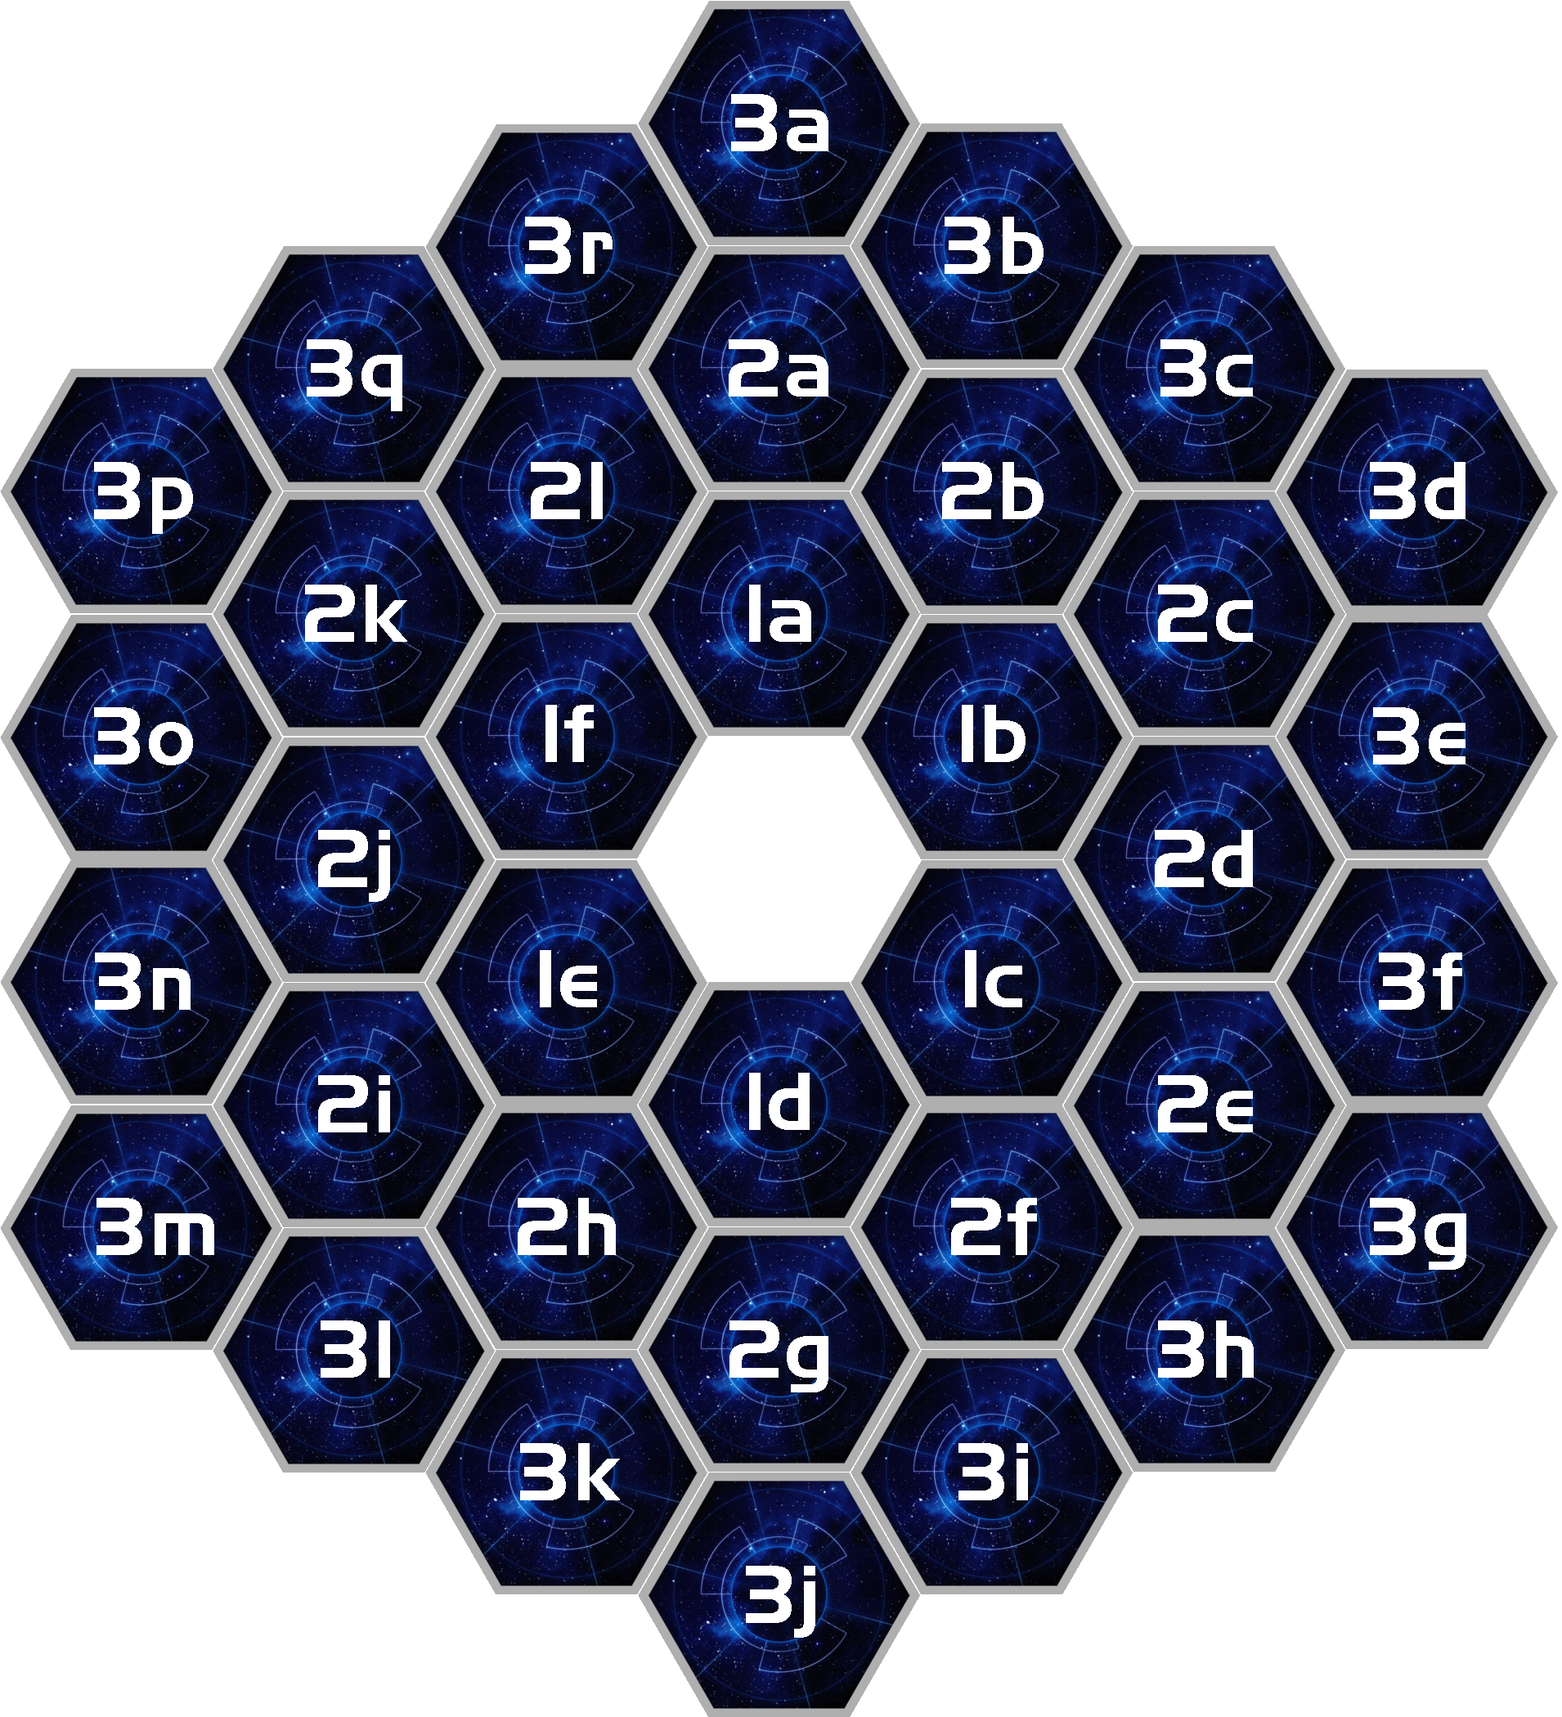
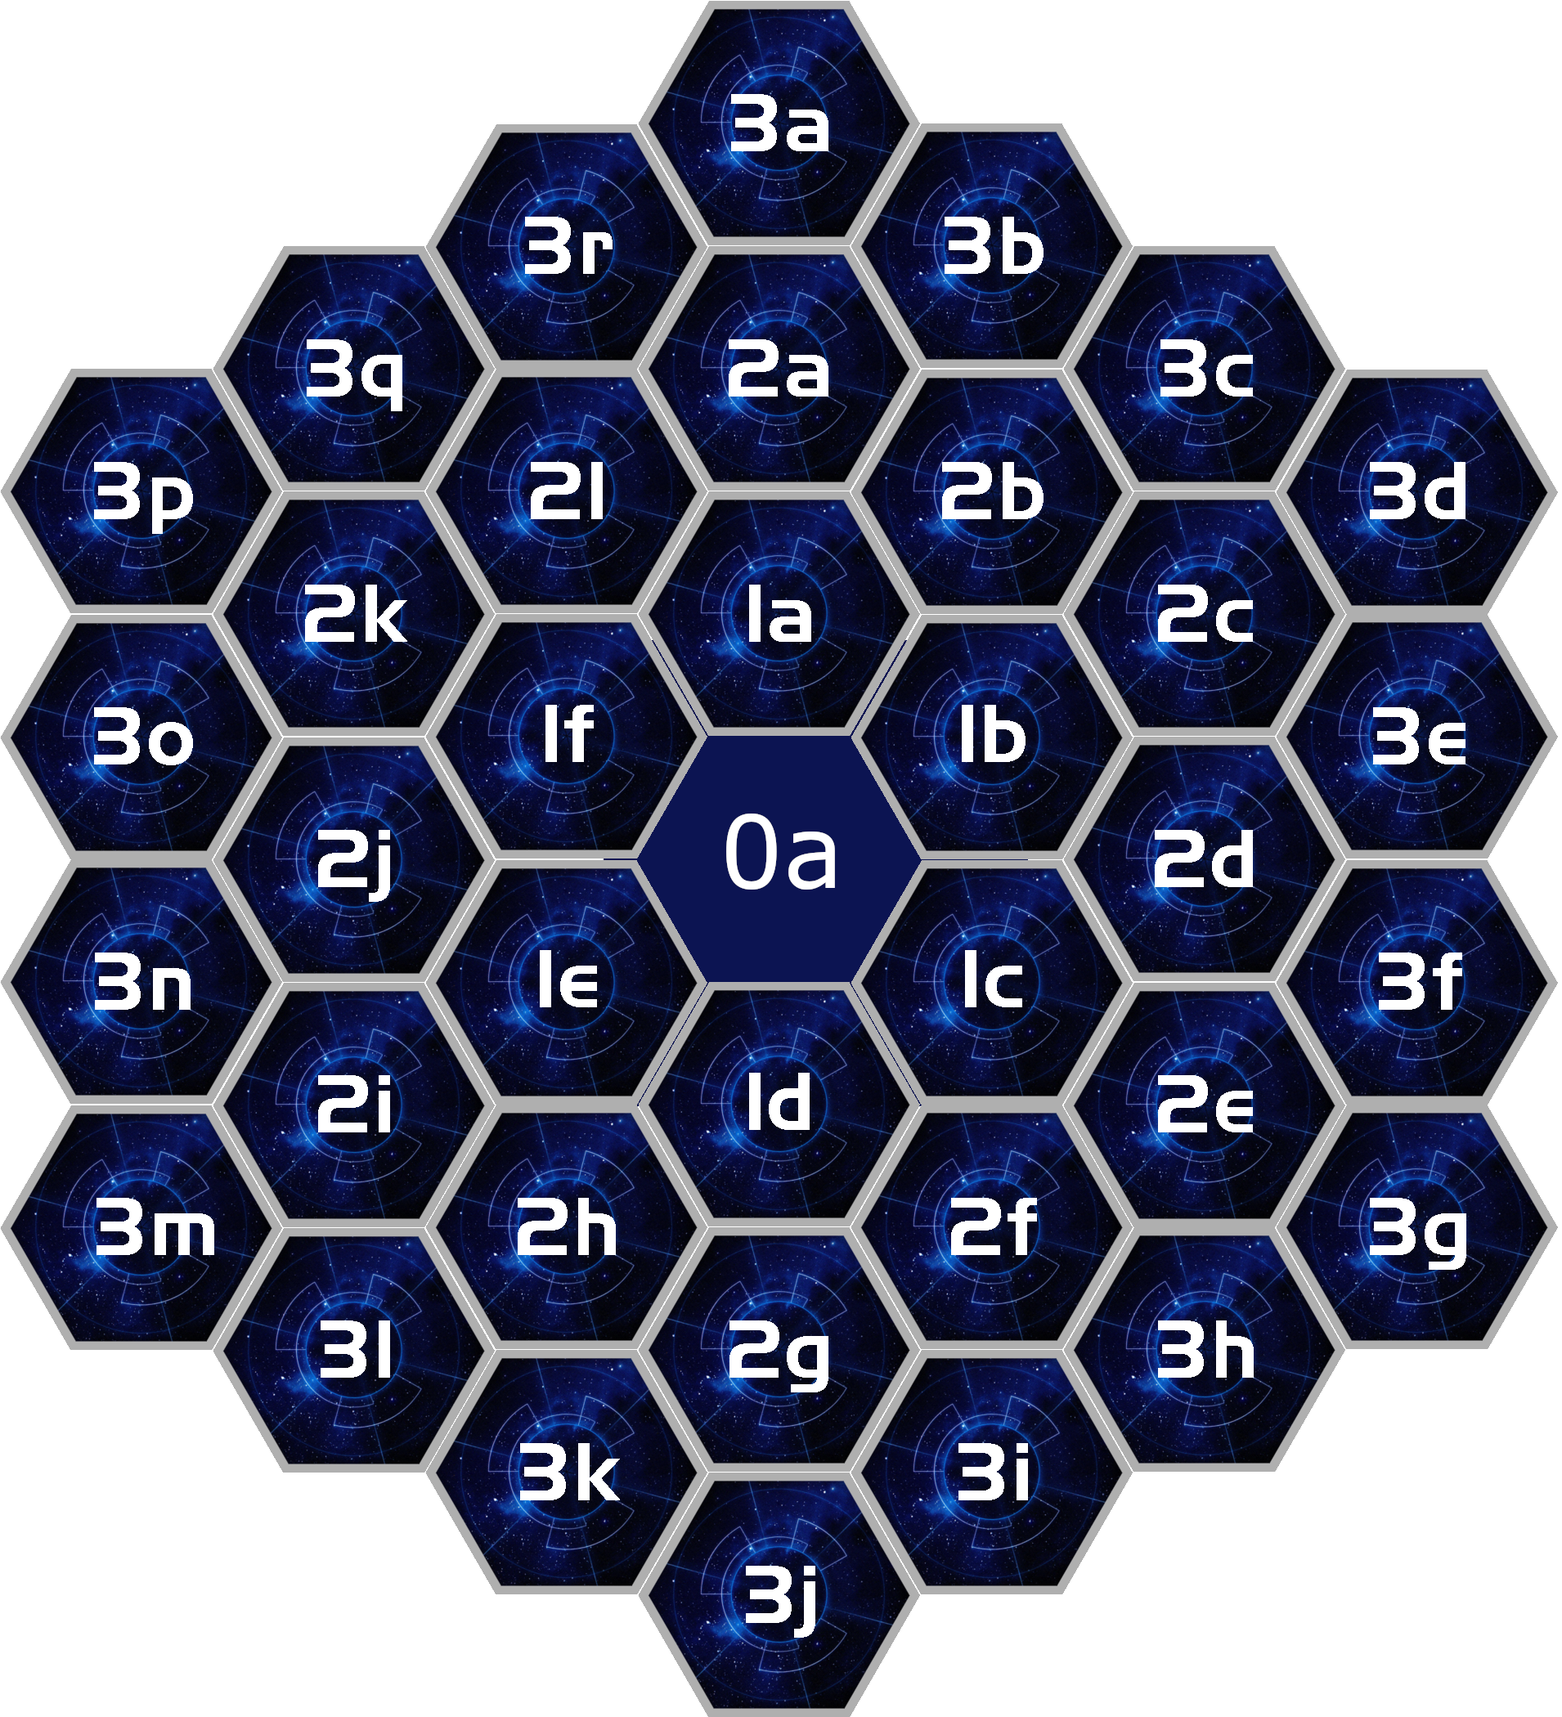
8 player support

Changed region(s): [[0.4016, 0.4024, 0.5869, 0.5881]]

diff --git a/src/main/java/ti4/generator/GenerateMap.java b/src/main/java/ti4/generator/GenerateMap.java
@@ -39,31 +39,38 @@ public class GenerateMap {
     private static Point numberPositionPoint = new Point(45, 35);
     private static HashMap<Player, Integer> userVPs = new HashMap<>();
 
+    private final int width6 = 2000;
+    private final int heght6 = 2100;
+    private final int width8 = 2500;
+    private final int heght8 = 3050;
+
     private static GenerateMap instance;
 
     private GenerateMap() {
-        String tileFile = ResourceHelper.getInstance().getTileFile("6player_setup.png");
-        File setupFile = new File(tileFile);
-        BufferedImage setupImage = null;
         try {
-            setupImage = ImageIO.read(setupFile);
             String controlID = Mapper.getControlID("red");
             BufferedImage bufferedImage = resizeImage(ImageIO.read(new File(Mapper.getCCPath(controlID))), 0.45f);
             scoreTokenWidth = bufferedImage.getWidth();
         } catch (IOException e) {
             LoggerHandler.logError("Could read file data for setup file", e);
         }
-        if (setupImage == null) {
-            LoggerHandler.log("Could not init map generator");
-            //todo message to user
-        }
-        width = Math.max(setupImage.getWidth(), 2000 + (extraWidth * 2));
-        heightForGameInfo = setupImage.getHeight();
-        heightForGameInfoStorage = heightForGameInfo;
-        height = heightForGameInfo + setupImage.getHeight() / 2 + 800;
-        heightStats = setupImage.getHeight() / 2 + 800;
-        heightStorage = height;
+        init(null);
         resetImage();
+    }
+
+    private void init(Map map) {
+        int mapWidth = width6;
+        int mapHeight = heght6;
+        if (map != null && map.getPlayerCountForMap() == 8){
+            mapWidth = width8;
+            mapHeight = heght8;
+        }
+        width = mapWidth + (extraWidth * 2);
+        heightForGameInfo = mapHeight;
+        heightForGameInfoStorage = heightForGameInfo;
+        height = heightForGameInfo + mapHeight / 2 + 1000;
+        heightStats = mapHeight / 2 + 1000;
+        heightStorage = height;
     }
 
     private void resetImage() {
@@ -79,17 +86,19 @@ public class GenerateMap {
     }
 
     public File saveImage(Map map) {
-        if (map.getDisplayTypeForced() != null){
+        if (map.getDisplayTypeForced() != null) {
             return saveImage(map, map.getDisplayTypeForced());
         }
         return saveImage(map, DisplayType.all);
     }
+
     public File saveImage(Map map, @CheckForNull DisplayType displayType) {
-        if (map.getDisplayTypeForced() != null){
+        init(map);
+        if (map.getDisplayTypeForced() != null) {
             displayType = map.getDisplayTypeForced();
-        } else if (displayType == null){
+        } else if (displayType == null) {
             displayType = map.getDisplayTypeForced();
-            if (displayType == null){
+            if (displayType == null) {
                 displayType = DisplayType.all;
             }
         }
@@ -113,12 +122,12 @@ public class GenerateMap {
                         .findFirst()
                         .orElse(null);
                 if (setup != null) {
-                    addTile(tileMap.get(setup));
+                    addTile(tileMap.get(setup), map);
                     tileMap.remove(setup);
                 }
                 tileMap.keySet().stream()
                         .sorted()
-                        .forEach(key -> addTile(tileMap.get(key)));
+                        .forEach(key -> addTile(tileMap.get(key), map));
             }
             graphics.setFont(Storage.getFont32());
             graphics.setColor(Color.WHITE);
@@ -226,7 +235,7 @@ public class GenerateMap {
                     String factionPath = getFactionPath(faction);
                     if (factionPath != null) {
                         BufferedImage bufferedImage;
-                        if ("keleres".equals(faction)){
+                        if ("keleres".equals(faction)) {
                             bufferedImage = resizeImage(ImageIO.read(new File(factionPath)), 0.7f);
                         } else {
                             bufferedImage = resizeImage(ImageIO.read(new File(factionPath)), percent);
@@ -324,7 +333,7 @@ public class GenerateMap {
         graphics.setColor(Color.WHITE);
         Player speaker = map.getPlayer(map.getSpeaker());
         for (java.util.Map.Entry<String, Player> playerEntry : map.getPlayers().entrySet()) {
-            ArrayList<Point> points = PositionMapper.getPlayerPosition(playerPosition);
+            ArrayList<Point> points = PositionMapper.getPlayerPosition(playerPosition, map);
             if (points.isEmpty()) {
                 continue;
             }
@@ -342,8 +351,8 @@ public class GenerateMap {
             int x = points.get(2).x;
             int y = points.get(2).y;
             drawCCOfPlayer(ccID, x, y, player.getTacticalCC());
-            drawCCOfPlayer(fleetCCID, x, y+65, player.getFleetCC());
-            drawCCOfPlayer(ccID, x, y+130, player.getStrategicCC());
+            drawCCOfPlayer(fleetCCID, x, y + 65, player.getFleetCC());
+            drawCCOfPlayer(ccID, x, y + 130, player.getStrategicCC());
 
             if (player == speaker) {
                 String speakerID = Mapper.getTokenID(Constants.SPEAKER);
@@ -371,7 +380,7 @@ public class GenerateMap {
             BufferedImage ccImage = resizeImage(ImageIO.read(new File(ccPath)), 0.75f);
             int delta = 20;
             for (int i = 0; i < tacticalCC; i++) {
-                 graphics.drawImage(ccImage, x + (delta * i), y, null);
+                graphics.drawImage(ccImage, x + (delta * i), y, null);
             }
         } catch (Exception e) {
             LoggerHandler.log("Could not parse cc file for: " + ccID, e);
@@ -566,10 +575,13 @@ public class GenerateMap {
     }
 
 
-    private void addTile(Tile tile) {
+    private void addTile(Tile tile, Map map) {
         try {
             BufferedImage image = ImageIO.read(new File(tile.getTilePath()));
-            Point positionPoint = PositionMapper.getTilePosition(tile.getPosition());
+            Point positionPoint = PositionMapper.getTilePosition(tile.getPosition(), map);
+            if (positionPoint == null){
+                System.out.println();
+            }
             int tileX = positionPoint.x + extraWidth;
             int tileY = positionPoint.y;
             graphics.drawImage(image, tileX, tileY, null);

diff --git a/src/main/java/ti4/generator/PositionMapper.java b/src/main/java/ti4/generator/PositionMapper.java
@@ -2,6 +2,7 @@ package ti4.generator;
 
 import ti4.ResourceHelper;
 import ti4.helpers.LoggerHandler;
+import ti4.map.Map;
 
 import javax.annotation.CheckForNull;
 import java.awt.*;
@@ -16,17 +17,21 @@ import java.util.StringTokenizer;
 public class PositionMapper {
 
     private static final Properties positionTileMap6Player = new Properties();
+    private static final Properties positionTileMap8Player = new Properties();
     private static final Properties planetPositions = new Properties();
     private static final Properties spaceTokenPositions = new Properties();
     private static final Properties planetTokenPositions = new Properties();
     private static final Properties playerInfo = new Properties();
+    private static final Properties playerInfo8 = new Properties();
 
     public static void init() {
         readData("6player.properties", positionTileMap6Player, "Could not read position file");
+        readData("8player.properties", positionTileMap8Player, "Could not read position file");
         readData("planet.properties", planetPositions, "Could not read planet position file");
         readData("space_token.properties", spaceTokenPositions, "Could not read space token position file");
         readData("planet_token.properties", planetTokenPositions, "Could not read planet token position file");
         readData("6player_info.properties", playerInfo, "Could not read player info position file");
+        readData("8player_info.properties", playerInfo8, "Could not read player info position file");
     }
 
     public static String getTilePlanetPositions(String tileID) {
@@ -67,12 +72,18 @@ public class PositionMapper {
         }
     }
 
-    public static boolean isTilePositionValid(String position) {
+    public static boolean isTilePositionValid(String position, Map userActiveMap) {
+        if (userActiveMap != null && userActiveMap.getPlayerCountForMap() == 8){
+            return positionTileMap8Player.getProperty(position) != null;
+        }
         return positionTileMap6Player.getProperty(position) != null;
     }
 
     @CheckForNull
-    public static Point getTilePosition(String position) {
+    public static Point getTilePosition(String position, Map map) {
+        if (map != null && map.getPlayerCountForMap() == 8){
+            return getPosition(position, positionTileMap8Player);
+        }
         return getPosition(position, positionTileMap6Player);
     }
 
@@ -95,9 +106,14 @@ public class PositionMapper {
         return null;
     }
 
-    public static ArrayList<Point> getPlayerPosition(int playerPosition) {
+    public static ArrayList<Point> getPlayerPosition(int playerPosition, Map map) {
         ArrayList<Point> positions = new ArrayList<>();
-        String info = (String) playerInfo.get(Integer.toString(playerPosition));
+        String info;
+        if (map != null && map.getPlayerCountForMap() == 8){
+            info = (String) playerInfo8.get(Integer.toString(playerPosition));
+        } else {
+            info = (String) playerInfo.get(Integer.toString(playerPosition));
+        }
         if (info == null) {
             return positions;
         }

diff --git a/src/main/java/ti4/commands/game/Setup.java b/src/main/java/ti4/commands/game/Setup.java
@@ -7,16 +7,29 @@ import net.dv8tion.jda.api.interactions.commands.build.OptionData;
 import ti4.helpers.Constants;
 import ti4.helpers.DisplayType;
 import ti4.map.Map;
+import ti4.map.MapSaveLoadManager;
+import ti4.message.MessageHelper;
 
 public class Setup extends GameSubcommandData {
     public Setup() {
         super(Constants.SETUP, "Game Setup");
-        addOptions(new OptionData(OptionType.STRING, Constants.DISPLAY_TYPE, "Show map in specific format. all, map, stats").setAutoComplete(true));
+        addOptions(new OptionData(OptionType.INTEGER, Constants.PLAYER_COUNT_FOR_MAP, "Specify player map size: 6 or 8. Default 6").setRequired(false));
+        addOptions(new OptionData(OptionType.STRING, Constants.DISPLAY_TYPE, "Show map in specific format. all, map, stats").setRequired(false).setAutoComplete(true));
     }
 
     @Override
     public void execute(SlashCommandInteractionEvent event) {
         Map activeMap = getActiveMap();
+
+        OptionMapping playerCount = event.getOption(Constants.PLAYER_COUNT_FOR_MAP);
+        if (playerCount != null) {
+            int count = playerCount.getAsInt();
+            if (count != 6 && count != 8) {
+                MessageHelper.sendMessageToChannel(event.getChannel(), "Must specify 6 or 8 player.");
+            } else {
+                activeMap.setPlayerCountForMap(count);
+            }
+        }
 
         DisplayType displayType = null;
         OptionMapping statsOption = event.getOption(Constants.DISPLAY_TYPE);
@@ -29,7 +42,7 @@ public class Setup extends GameSubcommandData {
                 displayType = DisplayType.map;
             } else if (temp.equals(DisplayType.stats.getValue())) {
                 displayType = DisplayType.stats;
-            } else if (temp.equals("none")){
+            } else if (temp.equals("none")) {
                 activeMap.setDisplayTypeForced(null);
                 return;
             }
@@ -37,5 +50,6 @@ public class Setup extends GameSubcommandData {
         if (displayType != null) {
             activeMap.setDisplayTypeForced(displayType);
         }
+        MapSaveLoadManager.saveMap(activeMap);
     }
 }

diff --git a/src/main/java/ti4/map/MapSaveLoadManager.java b/src/main/java/ti4/map/MapSaveLoadManager.java
@@ -211,6 +211,9 @@ public class MapSaveLoadManager {
             writer.write(System.lineSeparator());
         }
 
+        writer.write(Constants.PLAYER_COUNT_FOR_MAP + " " + map.getPlayerCountForMap());
+        writer.write(System.lineSeparator());
+
         StringBuilder sb1 = new StringBuilder();
         for (java.util.Map.Entry<String, List<String>> entry : map.getScoredPublicObjectives().entrySet()) {
             String userIds = String.join("-", entry.getValue());
@@ -600,13 +603,25 @@ public class MapSaveLoadManager {
                 }
             } else if (Constants.SPEAKER.equals(identification)) {
                 map.setSpeaker(tokenizer[1]);
+            } else if (Constants.PLAYER_COUNT_FOR_MAP.equals(identification)) {
+                String count = tokenizer[1];
+                try {
+                    int playerCount = Integer.parseInt(count);
+                    if (playerCount == 6 || playerCount == 8) {
+                        map.setPlayerCountForMap(playerCount);
+                    } else {
+                        map.setPlayerCountForMap(6);
+                    }
+                } catch (Exception e) {
+                    map.setPlayerCountForMap(6);
+                }
             } else if (Constants.DISPLAY_TYPE.equals(identification)) {
                 String displayType = tokenizer[1];
-                if (displayType.equals(DisplayType.stats.getValue())){
+                if (displayType.equals(DisplayType.stats.getValue())) {
                     map.setDisplayTypeForced(DisplayType.stats);
-                } else if (displayType.equals(DisplayType.map.getValue())){
+                } else if (displayType.equals(DisplayType.map.getValue())) {
                     map.setDisplayTypeForced(DisplayType.map);
-                } else if (displayType.equals(DisplayType.all.getValue())){
+                } else if (displayType.equals(DisplayType.all.getValue())) {
                     map.setDisplayTypeForced(DisplayType.all);
                 }
 

diff --git a/src/main/java/ti4/commands/map/RemoveTile.java b/src/main/java/ti4/commands/map/RemoveTile.java
@@ -5,7 +5,6 @@ import net.dv8tion.jda.api.interactions.commands.OptionType;
 import net.dv8tion.jda.api.interactions.commands.build.Commands;
 import net.dv8tion.jda.api.interactions.commands.build.OptionData;
 import net.dv8tion.jda.api.requests.restaction.CommandListUpdateAction;
-import ti4.commands.map.AddRemoveTile;
 import ti4.generator.PositionMapper;
 import ti4.helpers.Constants;
 import ti4.map.Map;
@@ -28,7 +27,7 @@ public class RemoveTile extends AddRemoveTile {
     @Override
     protected Map tileParsing(SlashCommandInteractionEvent event, String userID, MapManager mapManager) {
         String position = event.getOptions().get(0).getAsString();
-        if (!PositionMapper.isTilePositionValid(position)) {
+        if (!PositionMapper.isTilePositionValid(position, mapManager.getUserActiveMap(userID))) {
             MessageHelper.replyToMessage(event, "Position tile not allowed");
             return null;
         }

diff --git a/src/main/java/ti4/commands/game/Info.java b/src/main/java/ti4/commands/game/Info.java
@@ -5,6 +5,7 @@ import net.dv8tion.jda.api.interactions.commands.OptionType;
 import net.dv8tion.jda.api.interactions.commands.build.OptionData;
 import org.jetbrains.annotations.NotNull;
 import ti4.helpers.Constants;
+import ti4.helpers.DisplayType;
 import ti4.map.Map;
 import ti4.map.MapManager;
 import ti4.map.Player;
@@ -37,6 +38,8 @@ public class Info extends GameSubcommandData{
 
         sb.append("Map owner: " + map.getOwnerName()).append(NEW_LINE);
         sb.append("Map status: " + map.getMapStatus()).append(NEW_LINE);
+        sb.append("Map player count: " + map.getPlayerCountForMap()).append(NEW_LINE);
+        sb.append("Map Display type count: " + (map.getDisplayTypeForced() != null ? map.getDisplayTypeForced().getValue() : DisplayType.all.getValue())).append(NEW_LINE);
         sb.append("Players: ").append(NEW_LINE);
         HashMap<String, Player> players = map.getPlayers();
         int index = 1;

diff --git a/src/main/java/ti4/map/Map.java b/src/main/java/ti4/map/Map.java
@@ -16,6 +16,7 @@ public class Map {
 
     @CheckForNull
     private DisplayType displayTypeForced = null;
+    private int playerCountForMap = 6;
 
     //UserID, UserName
     private LinkedHashMap<String, Player> players = new LinkedHashMap<>();
@@ -80,6 +81,14 @@ public class Map {
 
     public void setDisplayTypeForced(DisplayType displayTypeForced) {
         this.displayTypeForced = displayTypeForced;
+    }
+
+    public int getPlayerCountForMap() {
+        return playerCountForMap;
+    }
+
+    public void setPlayerCountForMap(int playerCountForMap) {
+        this.playerCountForMap = playerCountForMap;
     }
 
     public void setSCPlayed(Integer scNumber, Boolean playedStatus) {

diff --git a/src/main/java/ti4/commands/map/AddRemoveTile.java b/src/main/java/ti4/commands/map/AddRemoveTile.java
@@ -50,7 +50,7 @@ abstract public class AddRemoveTile implements Command {
     protected Map tileParsing(SlashCommandInteractionEvent event, String userID, MapManager mapManager) {
         String planetTileName = AliasHandler.resolveTile(event.getOptions().get(0).getAsString().toLowerCase());
         String position = event.getOptions().get(1).getAsString();
-        if (!PositionMapper.isTilePositionValid(position)) {
+        if (!PositionMapper.isTilePositionValid(position, mapManager.getUserActiveMap(userID))) {
             MessageHelper.replyToMessage(event, "Position tile not allowed");
             return null;
         }

diff --git a/src/main/java/ti4/helpers/Constants.java b/src/main/java/ti4/helpers/Constants.java
@@ -15,6 +15,7 @@ public class Constants {
     public static final String SET_STATUS = "set_status";
     public static final String REMOVE_PLAYER = "remove_player";
     public static final String PLAYER_NAME = "player_name";
+    public static final String PLAYER_COUNT_FOR_MAP = "player_count_for_map";
     public static final String JOIN = "join";
     public static final String ADD = "add";
     public static final String LEAVE = "leave";
